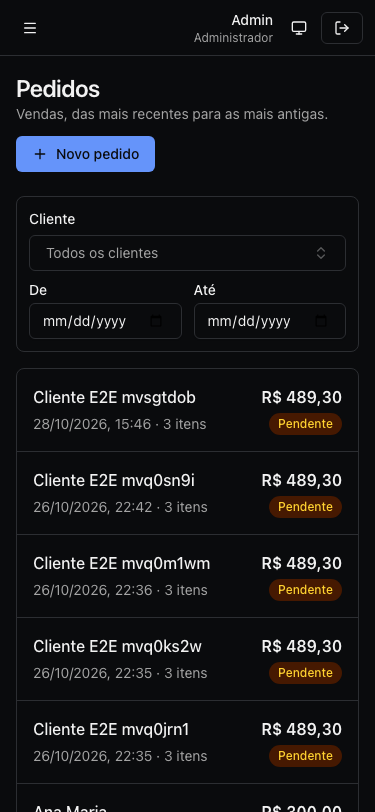
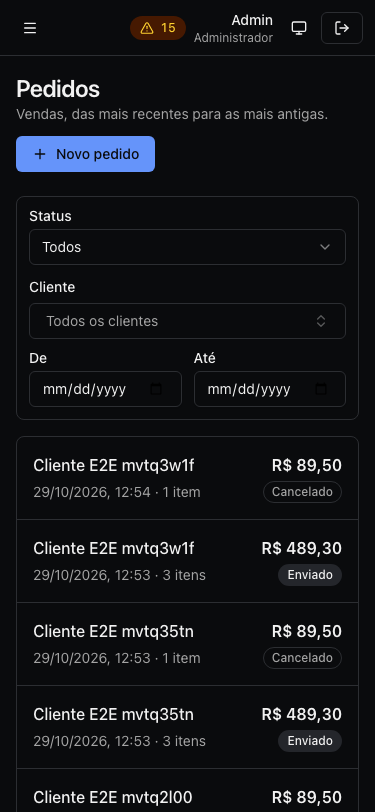
test(web): e2e do ciclo do pedido, cancelamento com motivo, movimentações e alerta; prints novos
- fluxo: pagar → enviar com linha do tempo, cancelar com motivo devolve o estoque,
  aba de movimentações e alerta de estoque baixo
- vendedor só registra o pagamento num pedido pendente do seed
- prints de categorias, estoque baixo e da linha do tempo

diff --git a/apps/web/e2e/flow.e2e.ts b/apps/web/e2e/flow.e2e.ts
@@ -3,8 +3,10 @@ import { login, makePng, pickOption } from './support';
 
 /**
  * Fluxo dos critérios de pronto, contra a API real:
- * cliente → produtos (um com imagem) → pedido com dois produtos → estoque baixou
- * → estourar o estoque → excluir cliente com pedido é recusado.
+ * cliente → produtos (um com imagem) → pedido com dois produtos → pagar e enviar
+ * (linha do tempo) → estoque baixou e entrou no alerta → cancelar outro pedido
+ * com motivo devolve o estoque → movimentações → estourar o estoque → excluir
+ * cliente com pedido é recusado.
  */
 test('fluxo completo de venda', async ({ page }) => {
   const stamp = Date.now().toString(36);
@@ -26,7 +28,8 @@ test('fluxo completo de venda', async ({ page }) => {
   await page.goto('/products/new');
   await page.getByLabel('Nome').fill(keyboard);
   await page.getByLabel('Preço').fill('199,90');
-  await page.getByLabel('Estoque').fill('5');
+  await page.getByLabel('Estoque inicial').fill('5');
+  await page.getByRole('spinbutton', { name: 'Estoque mínimo' }).fill('4');
   await page.getByRole('button', { name: 'Cadastrar produto' }).click();
   await expect(page.getByText('Sem imagem')).toBeVisible();
   await page.getByLabel('Arquivo da imagem').setInputFiles({
@@ -48,7 +51,8 @@ test('fluxo completo de venda', async ({ page }) => {
   await page.goto('/products/new');
   await page.getByLabel('Nome').fill(mouse);
   await page.getByLabel('Preço').fill('89,50');
-  await page.getByLabel('Estoque').fill('3');
+  await page.getByLabel('Estoque inicial').fill('3');
+  await page.getByRole('spinbutton', { name: 'Estoque mínimo' }).fill('4');
   await page.getByRole('button', { name: 'Cadastrar produto' }).click();
   await expect(page.getByText('Sem imagem')).toBeVisible();
 
@@ -67,6 +71,32 @@ test('fluxo completo de venda', async ({ page }) => {
   await page.getByRole('button', { name: 'Criar pedido' }).click();
   await expect(page.getByRole('heading', { name: /Pedido de/ })).toBeVisible();
   await expect(page.getByText('R$ 489,30')).toBeVisible();
+  const orderUrl = page.url();
+
+  // 3b. pagar e enviar: cada ação pede confirmação e entra na linha do tempo
+  for (const action of ['Registrar pagamento', 'Marcar como enviado']) {
+    await page.getByRole('button', { name: action }).click();
+    await page
+      .getByRole('alertdialog')
+      .getByRole('button', { name: action })
+      .click();
+    await expect(page.getByRole('alertdialog')).toHaveCount(0);
+  }
+  await expect(page.getByText('Enviado', { exact: true })).toBeVisible();
+  // depois do envio não se cancela mais
+  await expect(
+    page.getByRole('button', { name: 'Cancelar pedido' }),
+  ).toHaveCount(0);
+  const timeline = page.getByRole('list', { name: 'Histórico do pedido' });
+  await expect(timeline.getByRole('listitem')).toHaveText([
+    /Pedido criado/,
+    /Pendente → Pago/,
+    /Pago → Enviado/,
+  ]);
+  await page.screenshot({
+    path: 'docs/screenshots/pedido-linha-do-tempo.png',
+    fullPage: true,
+  });
 
   // 4. estoque baixou: 5 - 2 = 3 (baixo) e 3 - 1 = 2
   await page.goto(`/products?q=${encodeURIComponent(`E2E ${stamp}`)}`);
@@ -77,6 +107,48 @@ test('fluxo completo de venda', async ({ page }) => {
   await expect(
     products.getByRole('row', { name: new RegExp(mouse) }),
   ).toContainText('Baixo · 2 un.');
+  // os dois ficaram abaixo do mínimo (4): o alerta do cabeçalho mostra
+  await expect(
+    page.getByRole('link', { name: /abaixo do estoque mínimo/ }),
+  ).toBeVisible();
+
+  // 4b. outro pedido, cancelado com motivo: o estoque volta
+  await page.goto('/orders/new');
+  await pickOption(page, 'Cliente', customerName, customerName);
+  await pickOption(page, 'Adicionar produto', mouse, mouse);
+  await page.getByRole('button', { name: 'Criar pedido' }).click();
+  await expect(page.getByRole('heading', { name: /Pedido de/ })).toBeVisible();
+  await page.getByRole('button', { name: 'Cancelar pedido' }).click();
+  const cancel = page.getByRole('alertdialog', { name: 'Cancelar pedido?' });
+  await cancel.getByLabel('Motivo do cancelamento').fill('Cliente desistiu');
+  await cancel.getByRole('button', { name: 'Cancelar pedido' }).click();
+  await expect(
+    page.getByText('Pedido cancelado. Os itens voltaram ao estoque.'),
+  ).toBeVisible();
+  await expect(
+    page.getByRole('list', { name: 'Histórico do pedido' }),
+  ).toContainText('Motivo: Cliente desistiu');
+
+  // 4c. movimentações do teclado: saldo inicial e a venda do primeiro pedido
+  await page.goto(`/products?q=${encodeURIComponent(keyboard)}`);
+  await page
+    .getByRole('table', { name: 'Produtos' })
+    .getByRole('link', { name: keyboard, exact: true })
+    .click();
+  await page.getByRole('tab', { name: 'Movimentações' }).click();
+  const movements = page.getByRole('table', {
+    name: 'Movimentações de estoque',
+  });
+  await expect(movements.getByRole('row')).toHaveText([
+    /Data/,
+    /Venda.*-2.*3/,
+    /Saldo inicial.*\+5.*5/,
+  ]);
+  await expect(
+    movements.getByRole('link', {
+      name: `Pedido nº ${orderUrl.split('/').at(-1)?.slice(0, 8) ?? ''}`,
+    }),
+  ).toBeVisible();
 
   // 5. estourar o estoque: a API recusa e a linha é apontada
   await page.goto('/orders/new');
@@ -99,7 +171,7 @@ test('fluxo completo de venda', async ({ page }) => {
     fullPage: true,
   });
 
-  // 6. excluir o cliente com pedido é recusado (sai sem salvar o pedido rascunho)
+  // 6. excluir o cliente com pedidos (o enviado e o cancelado) é recusado (sai sem salvar o rascunho)
   await page.getByRole('link', { name: 'Clientes' }).first().click();
   await page.getByRole('button', { name: 'Sair sem salvar' }).click();
   await page
@@ -115,5 +187,5 @@ test('fluxo completo de venda', async ({ page }) => {
     .click();
   await expect(
     page.getByRole('alertdialog', { name: 'Não é possível excluir' }),
-  ).toContainText('Este cliente tem 1 pedido e não pode ser excluído');
+  ).toContainText('Este cliente tem 2 pedidos e não pode ser excluído');
 });

diff --git a/apps/web/e2e/roles.e2e.ts b/apps/web/e2e/roles.e2e.ts
@@ -20,6 +20,20 @@ test('vendedor: sem Usuários no menu, sem excluir e 403 pela URL', async ({
   await expect(
     page.getByRole('heading', { name: 'Acesso não permitido' }),
   ).toBeVisible();
+
+  // pedido pendente do seed: o vendedor só registra o pagamento
+  await page.goto('/orders?status=pending');
+  await page
+    .getByRole('table', { name: 'Pedidos' })
+    .getByRole('link')
+    .first()
+    .click();
+  await expect(
+    page.getByRole('button', { name: 'Registrar pagamento' }),
+  ).toBeVisible();
+  await expect(
+    page.getByRole('button', { name: 'Cancelar pedido' }),
+  ).toHaveCount(0);
 });
 
 test('gerente: exclui produtos mas não gerencia usuários', async ({ page }) => {

diff --git a/apps/web/e2e/screenshots.e2e.ts b/apps/web/e2e/screenshots.e2e.ts
@@ -11,6 +11,12 @@ const pages = [
   { name: 'produtos', path: '/products', ready: 'Produtos' },
   // inclui os produtos com imagem criados pelo fluxo e2e
   { name: 'produtos-busca', path: '/products?q=teclado', ready: 'Produtos' },
+  { name: 'categorias', path: '/categories', ready: 'Categorias' },
+  {
+    name: 'estoque-baixo',
+    path: '/products/low-stock',
+    ready: 'Estoque baixo',
+  },
   { name: 'pedidos', path: '/orders', ready: 'Pedidos' },
   { name: 'novo-pedido', path: '/orders/new', ready: 'Novo pedido' },
 ] as const;
